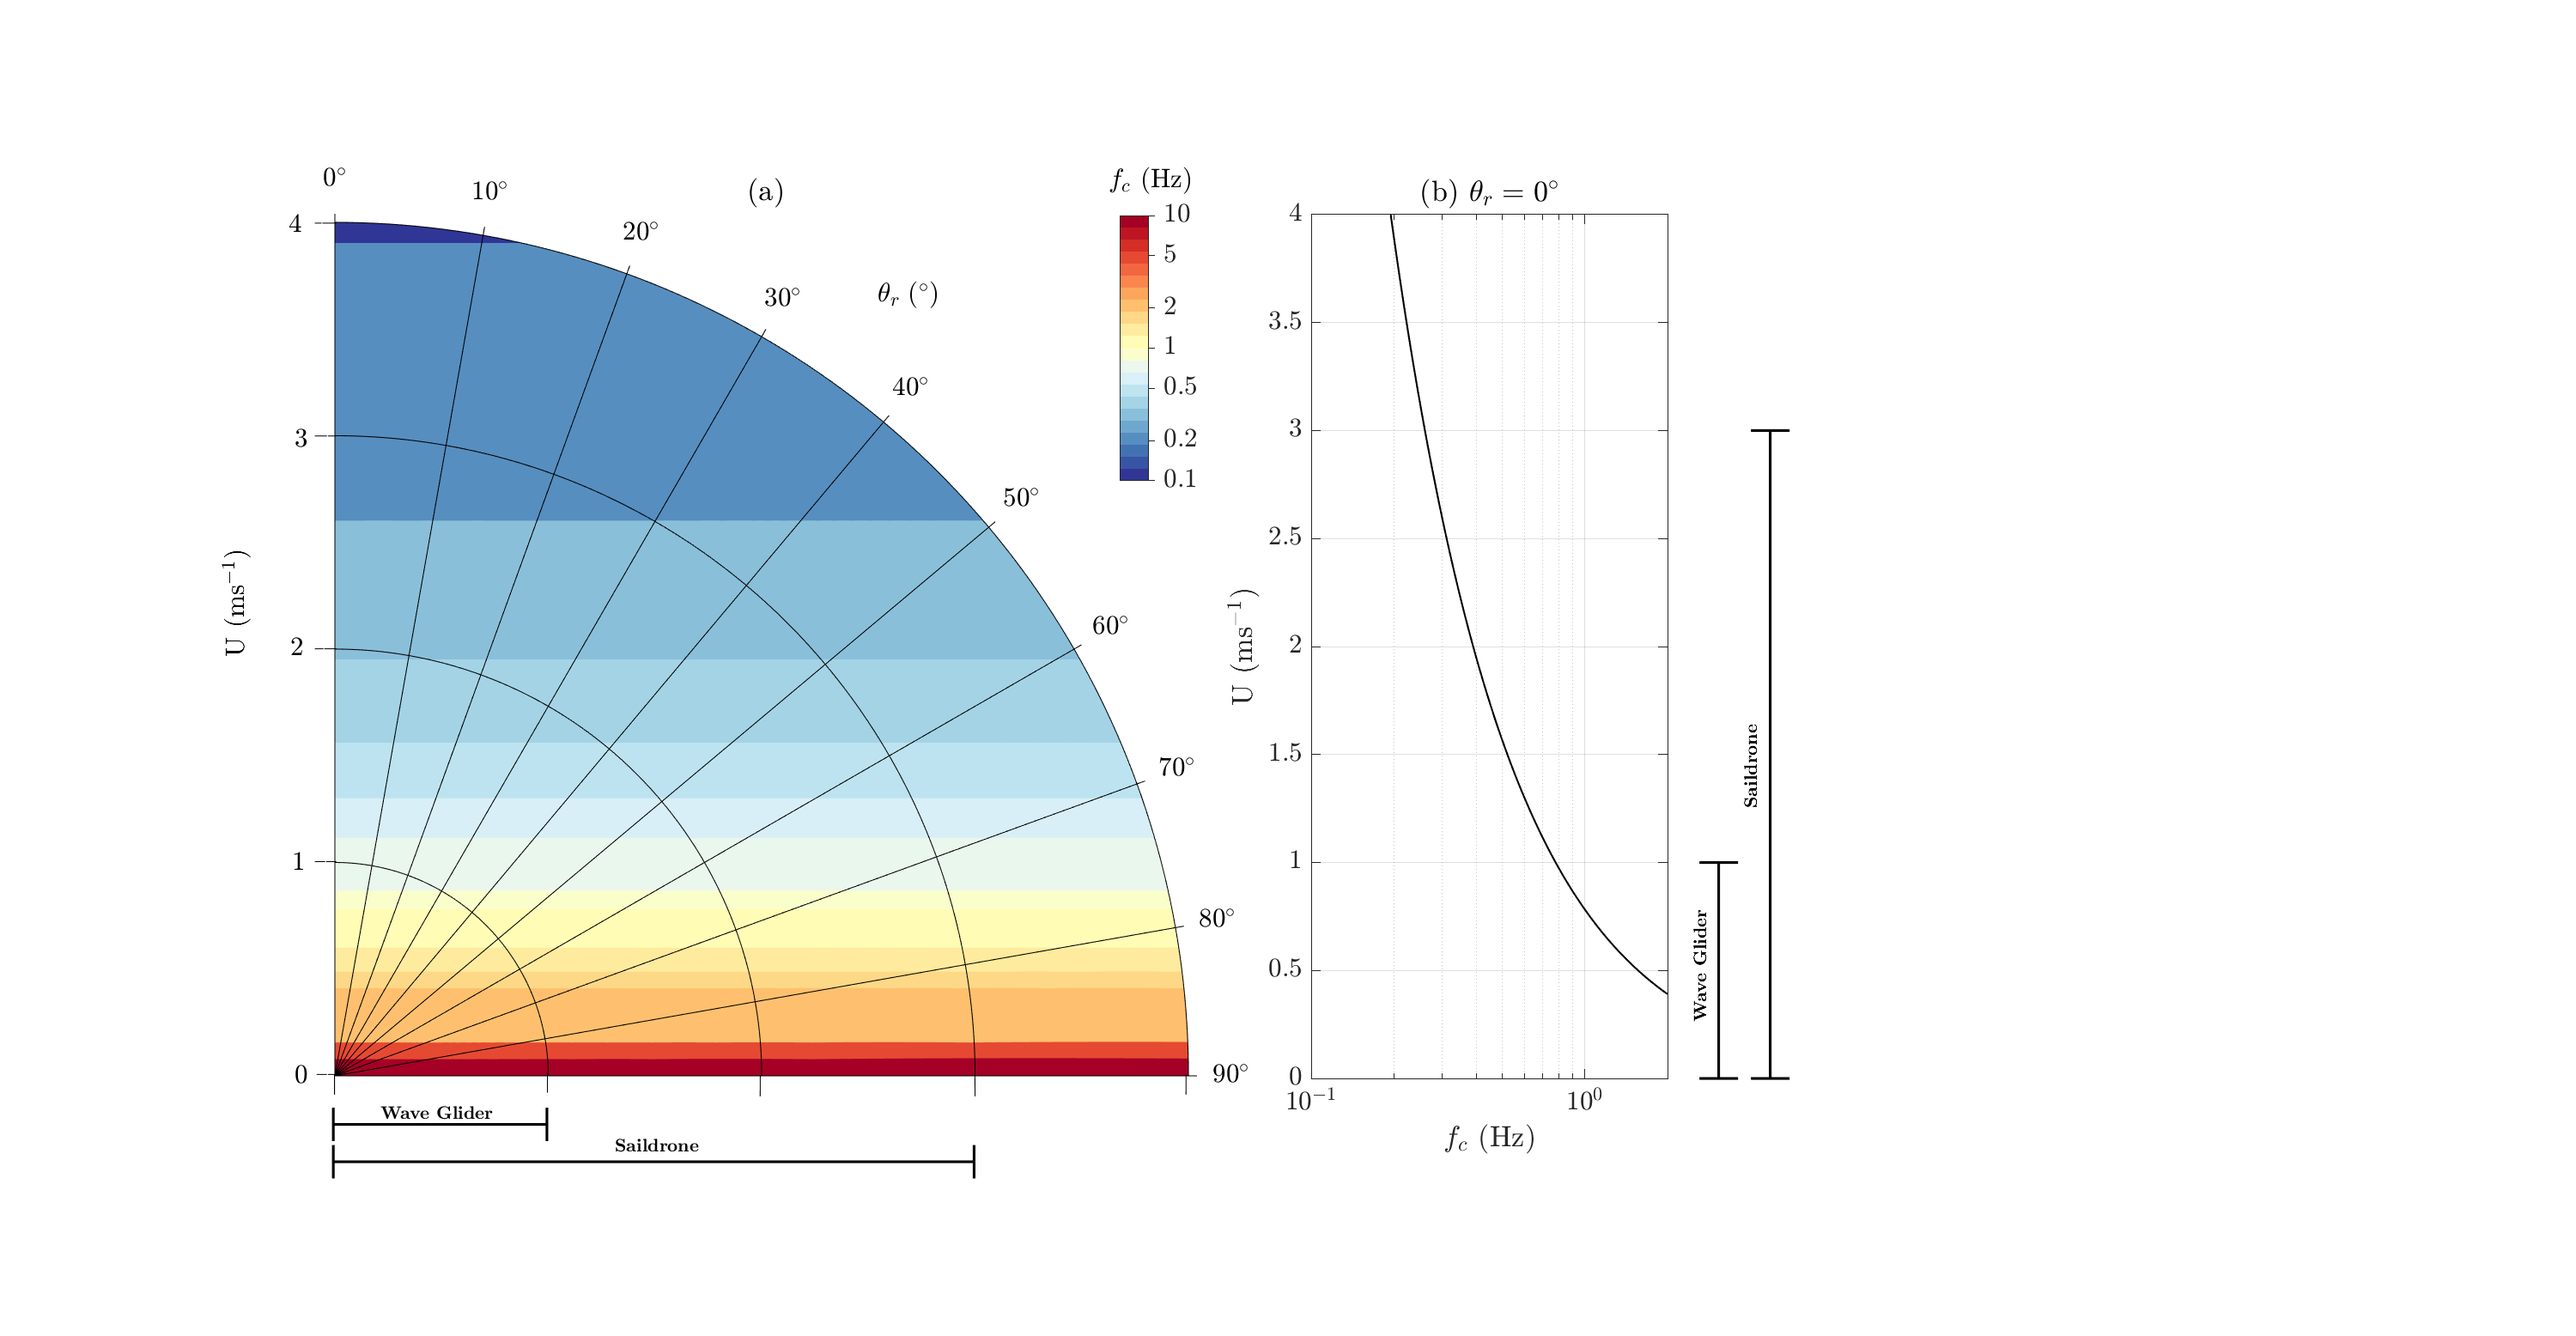
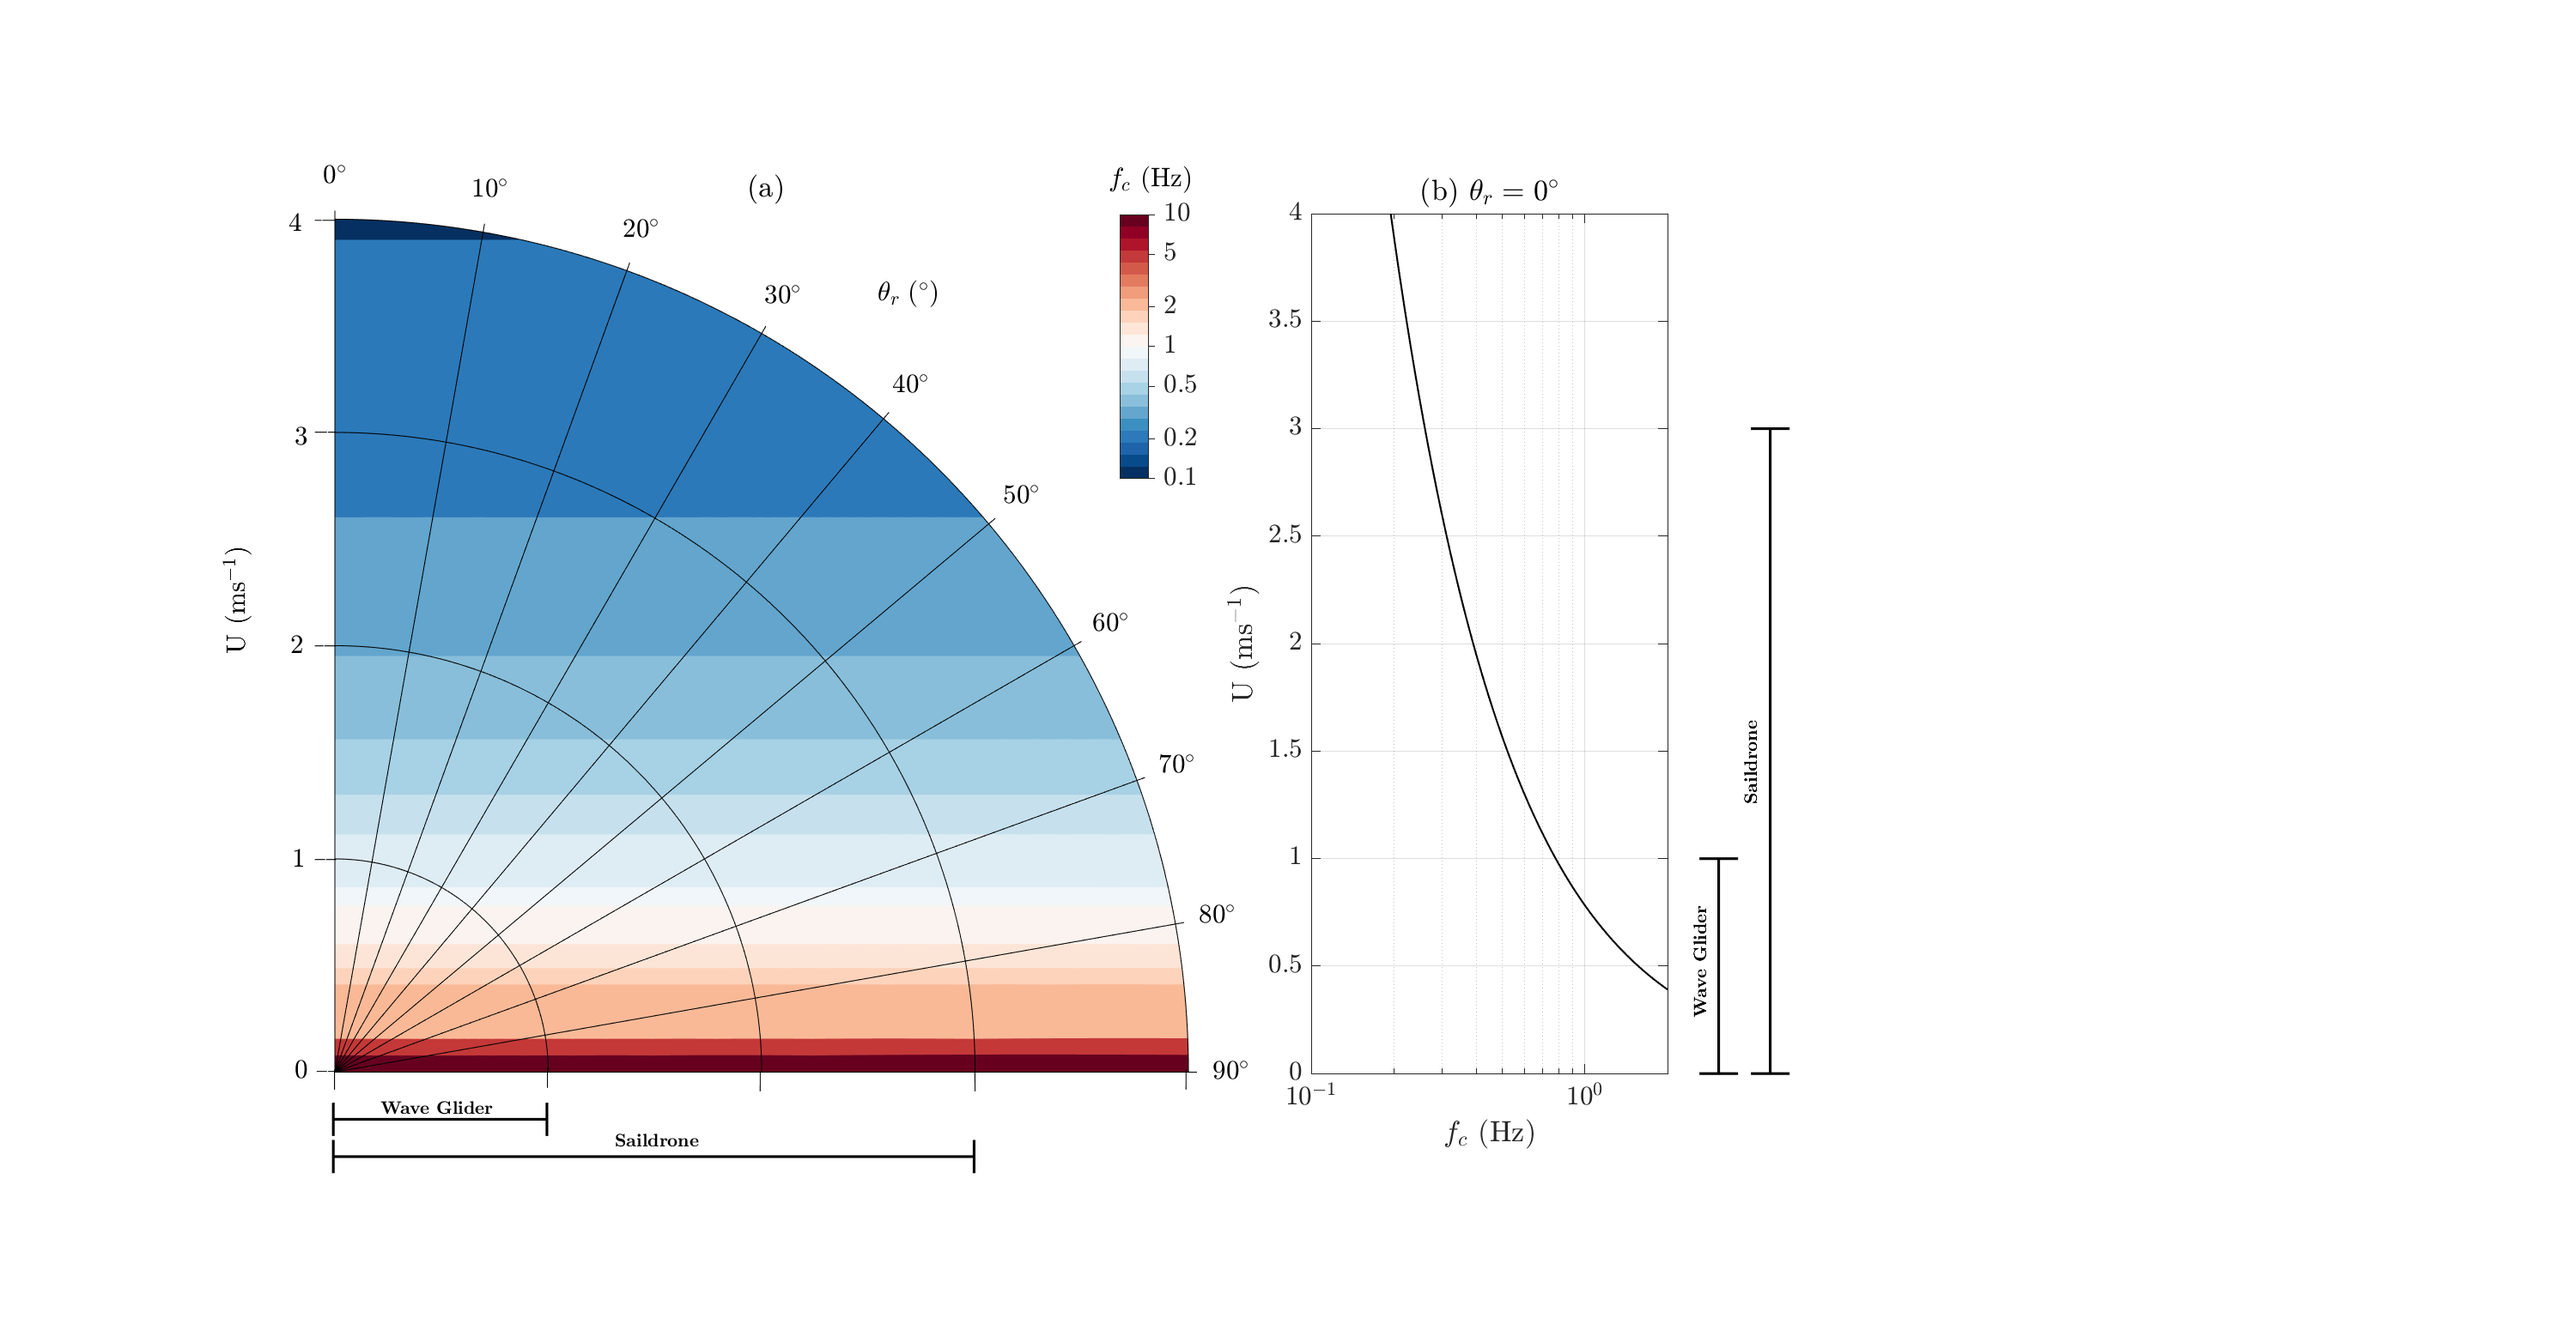
Reposition tickmarks.

Changed region(s): [[0.124, 0.1548, 0.434, 0.5574], [0.124, 0.6503, 0.465, 0.8052], [0.434, 0.1548, 0.465, 0.3716]]

diff --git a/src/fig4.m b/src/fig4.m
@@ -32,7 +32,8 @@ theta_r = 0:1:90;                                                           % Re
 % Compute bifurcation frequency (units: Hz)
 freq_b = (g)./(4*pi*U.*cosd(Theta_r));  
 
-%% Plot bifurcation frequency in polar space  
+%% Plot bifurcation frequency in polar space 
+close all
 
 % Set variables for plotting: 
 Ncircles = 5;                                                               % Number of azimuthal circles
@@ -46,7 +47,7 @@ LineStyle = '-';
 fontsize = 15;
 
 % Create Figure and axes
-figure('units','normalized','outerposition',[0 0 1 0.918], 'Name', 'Birfurcation frequency in polar space');
+figure('units','normalized','outerposition',[0 0 1 1], 'Name', 'Birfurcation frequency in polar space');
 
 %------------------- Subplot 1 -------------------%
 subplot(1,2,1)
@@ -75,25 +76,25 @@ set(gcf,'color',[1,1,1])
 ax = gca;
 ax.FontSize = fontsize;
 set(gca,'TickLabelInterpreter','latex')
-annotation('line', [0.13056,0.1222], [0.83300,0.83300])
-annotation('line', [0.13056,0.1222], [0.67369,0.67369])
+annotation('line', [0.13056,0.1222], [0.83434,0.83434])                     % Horizontal lines along vertical radial axis in subplot (a)
+annotation('line', [0.13056,0.1222], [0.67503,0.67503])
 annotation('line', [0.13056,0.1222], [0.51439,0.51439])
-annotation('line', [0.13056,0.1222], [0.35509,0.35509])
-annotation('line', [0.13125,0.1229], [0.19578,0.1958])
-annotation('line', [0.21250,0.2125], [0.19712,0.1821])
+annotation('line', [0.13056,0.1222], [0.35374,0.35374])
+annotation('line', [0.13125,0.1229], [0.19443,0.19443])
+annotation('line', [0.12986,0.12986],[0.19579 0.1807])                      % Vertical lines along horizontal radial axis in subplot (a)
+annotation('line', [0.21250,0.2125], [0.19712,0.1821])                      
 annotation('line', [0.29514,0.2951], [0.19440,0.1794])
 annotation('line', [0.37847,0.3785], [0.19445,0.1794])
 annotation('line', [0.46042,0.4604], [0.19579,0.1807])
-annotation('line', [0.12986,0.12986],[0.19579 0.1807])
-annotation('textbox',[0.3371 0.7577 0.0397 0.0375],...
+annotation('textbox',[0.3371 0.7577 0.0397 0.0375],...                      % Azimuthal axis tick label
            'String','$\theta_r \;(^\circ)$',...
            'Interpreter','latex','FontSize',15,...
            'FontName','Helvetica Neue','EdgeColor',[1 1 1]);
-annotation('textbox',[0.10348,0.5019,0.0592,0.0375],...
+annotation('textbox',[0.10348,0.5019,0.0592,0.0375],...                     % Radial axis tick label
            'String',{'U (ms$^{-1}$)'},'Interpreter','latex',...
            'FontSize',15,'FontName','Helvetica Neue','EdgeColor',[1 1 1],...
            'Rotation', 90);
-annotation('textbox',[0.1086 0.81923 0.0164 0.0281],...
+annotation('textbox',[0.1086 0.81923 0.0164 0.0281],...                     % Radial axis tick marks
            'String','4','Interpreter','latex','FontSize',15, ...
            'FontName','Helvetica Neue','EdgeColor',[1 1 1]);
 annotation('textbox',[0.1107 0.6586 0.0164 0.0281],...
